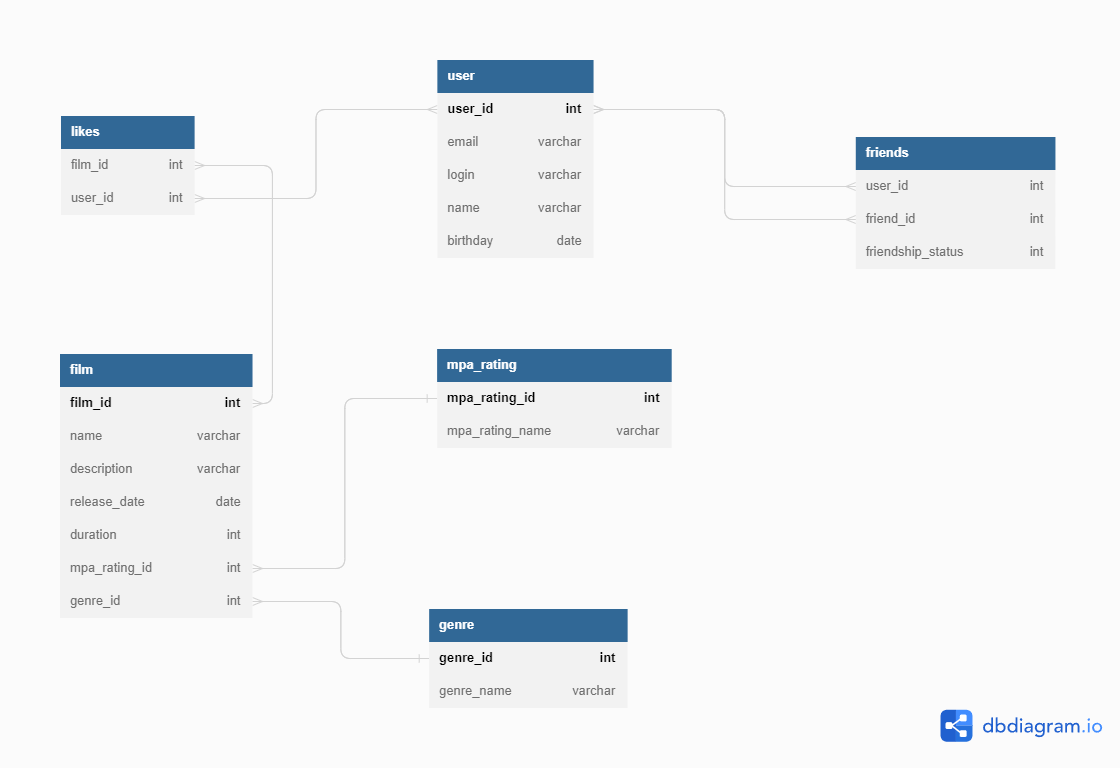
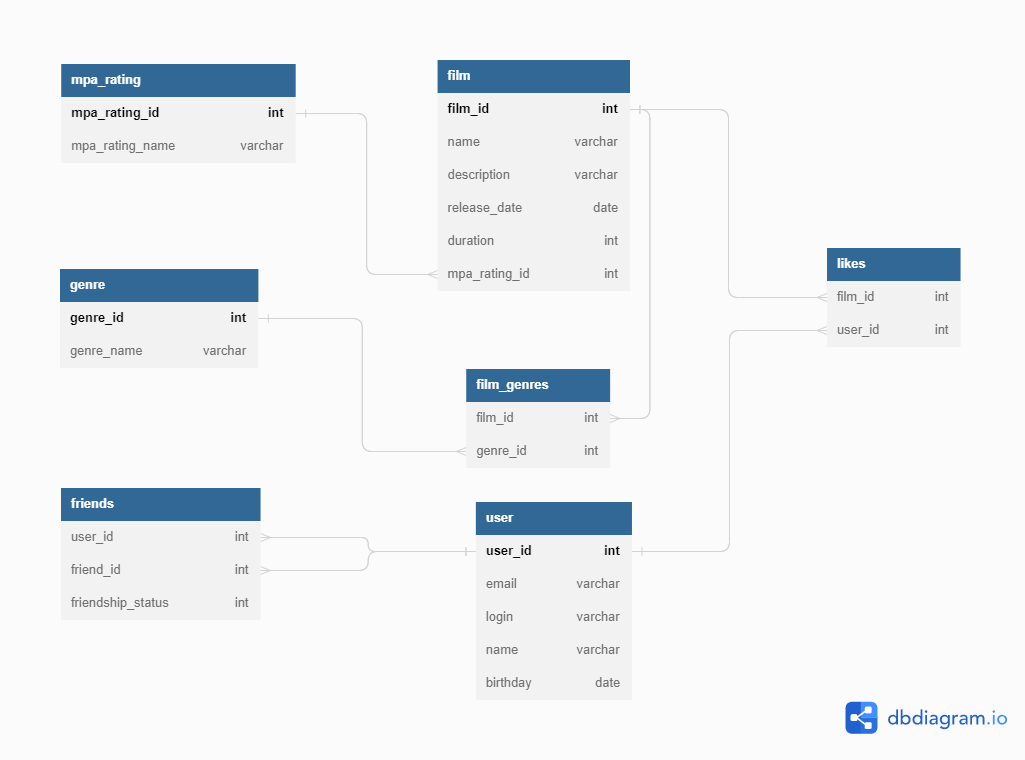
fix: review issues

diff --git a/README.md b/README.md
@@ -8,16 +8,17 @@ REST API сервис рейтинга фильмов
 
 ### Описание таблиц БД
 
-БД состоит из 6 таблиц:
+БД состоит из 7 таблиц:
 
 1. ***film*** - хранит информацию о фильме (имя, описание, дата релиза, продолжительность, рейтинг, жанр)
 2. ***mpa_rating*** - хранит перечисление возможных рейтингов.  
    Возможные варианты: G, PG, PG-13, R, NC-17.
 3. ***genre*** - хранит перечисление возможных жанров.  
    Возможные варианты: comedy, drama, cartoon, thriller, documentary, action.
-4. ***user*** - хранит пользователей сервиса (почта, логин, имя, дата рождения)
-5. ***likes*** - хранит лайки проставленные пользователями для конкретного фильма
-6. ***friends*** - хранит информацию о дружбе пользователей и статусе дружбы.   
+4. ***film_genres*** - хранит жанры фильмов.
+5. ***user*** - хранит пользователей сервиса (почта, логин, имя, дата рождения)
+6. ***likes*** - хранит лайки проставленные пользователями для конкретного фильма
+7. ***friends*** - хранит информацию о дружбе пользователей и статусе дружбы.   
    Возможные статусы: дружба (1), запрос дружбы (2), заблокирован (3).
 
 ### Примеры запросов к таблицам
